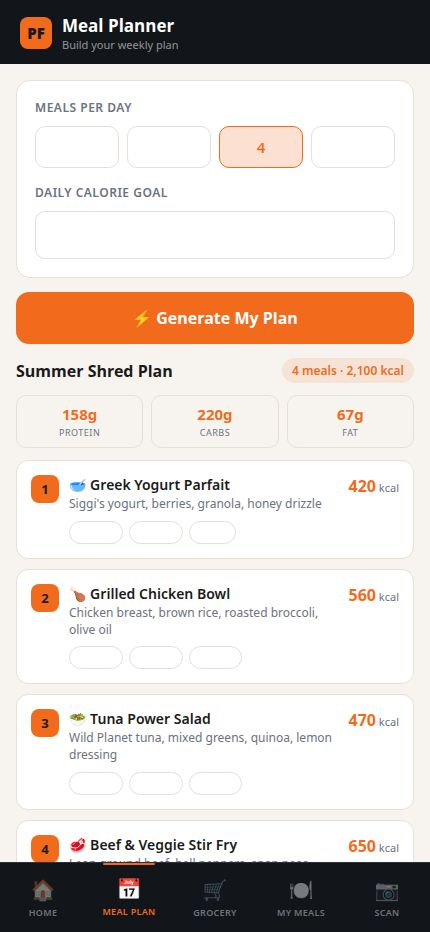
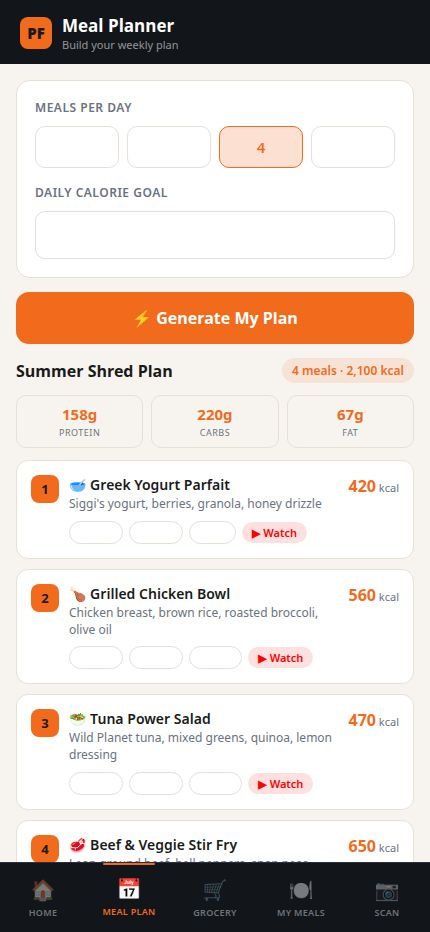
Add a YouTube watch button to every meal card for quick recipe access
Add a new "▶ Watch" button to each meal card in the planner, displaying below the macros. This button links directly to the YouTube recipe. The button was moved from the expanded section to be always visible. Corresponding styles and HTML structure updates were made to both the mobile app and the HTML mockup. The screenshot and metadata for the meal planner have been updated to reflect this change.

Replit-Commit-Author: Agent
Replit-Commit-Session-Id: 366c8a42-eaa5-40fb-9545-b218c470b2f4
Replit-Commit-Checkpoint-Type: full_checkpoint
Replit-Commit-Event-Id: 2ca76ca7-de41-43ef-96d9-b61741545b79
Replit-Commit-Screenshot-Url: https://storage.googleapis.com/screenshot-production-us-central1/840360d6-55f0-4f6a-9af5-ecb5804a7758/366c8a42-eaa5-40fb-9545-b218c470b2f4/QdsIlob
Replit-Helium-Checkpoint-Created: true

Changed region(s): [[0.5744, 0.809, 0.7256, 0.8712], [0.5442, 0.5601, 0.7256, 0.5912], [0.5744, 0.6845, 0.7256, 0.7157]]

diff --git a/artifacts/meal-prep/public/app-screens.html b/artifacts/meal-prep/public/app-screens.html
@@ -204,6 +204,11 @@
   .plan-result-header { display: flex; justify-content: space-between; align-items: center; margin-bottom: 12px; }
   .plan-result-title { font-size: 16px; font-weight: 700; }
   .macro-row { display: flex; gap: 8px; margin-bottom: 12px; }
+  .yt-pill {
+    display: inline-flex; align-items: center; gap: 4px;
+    background: rgba(255,0,0,0.12); color: #FF0000;
+    border-radius: 100px; padding: 3px 10px; font-size: 11px; font-weight: 600;
+  }
   .macro-pill {
     flex: 1; background: rgba(255,255,255,0.06);
     border: 1px solid var(--border);
@@ -726,10 +731,11 @@
           <div style="flex:1">
             <div class="meal-item-name">🥣 Greek Yogurt Parfait</div>
             <div class="meal-item-desc">Siggi's yogurt, berries, granola, honey drizzle</div>
-            <div style="display:flex;gap:6px;margin-top:8px;flex-wrap:wrap;">
+            <div style="display:flex;gap:6px;margin-top:8px;flex-wrap:wrap;align-items:center;">
               <span class="chip" style="font-size:11px;padding:3px 10px;">P: 28g</span>
               <span class="chip" style="font-size:11px;padding:3px 10px;">C: 42g</span>
               <span class="chip" style="font-size:11px;padding:3px 10px;">F: 8g</span>
+              <span class="yt-pill">▶ Watch</span>
             </div>
           </div>
           <div class="meal-cals">420<span style="font-size:11px;color:var(--muted);font-weight:400"> kcal</span></div>
@@ -742,10 +748,11 @@
           <div style="flex:1">
             <div class="meal-item-name">🍗 Grilled Chicken Bowl</div>
             <div class="meal-item-desc">Chicken breast, brown rice, roasted broccoli, olive oil</div>
-            <div style="display:flex;gap:6px;margin-top:8px;flex-wrap:wrap;">
+            <div style="display:flex;gap:6px;margin-top:8px;flex-wrap:wrap;align-items:center;">
               <span class="chip" style="font-size:11px;padding:3px 10px;">P: 48g</span>
               <span class="chip" style="font-size:11px;padding:3px 10px;">C: 58g</span>
               <span class="chip" style="font-size:11px;padding:3px 10px;">F: 14g</span>
+              <span class="yt-pill">▶ Watch</span>
             </div>
           </div>
           <div class="meal-cals">560<span style="font-size:11px;color:var(--muted);font-weight:400"> kcal</span></div>
@@ -758,10 +765,11 @@
           <div style="flex:1">
             <div class="meal-item-name">🥗 Tuna Power Salad</div>
             <div class="meal-item-desc">Wild Planet tuna, mixed greens, quinoa, lemon dressing</div>
-            <div style="display:flex;gap:6px;margin-top:8px;flex-wrap:wrap;">
+            <div style="display:flex;gap:6px;margin-top:8px;flex-wrap:wrap;align-items:center;">
               <span class="chip" style="font-size:11px;padding:3px 10px;">P: 42g</span>
               <span class="chip" style="font-size:11px;padding:3px 10px;">C: 35g</span>
               <span class="chip" style="font-size:11px;padding:3px 10px;">F: 18g</span>
+              <span class="yt-pill">▶ Watch</span>
             </div>
           </div>
           <div class="meal-cals">470<span style="font-size:11px;color:var(--muted);font-weight:400"> kcal</span></div>
@@ -774,10 +782,11 @@
           <div style="flex:1">
             <div class="meal-item-name">🥩 Beef &amp; Veggie Stir Fry</div>
             <div class="meal-item-desc">Lean ground beef, bell peppers, snap peas, coconut aminos</div>
-            <div style="display:flex;gap:6px;margin-top:8px;flex-wrap:wrap;">
+            <div style="display:flex;gap:6px;margin-top:8px;flex-wrap:wrap;align-items:center;">
               <span class="chip" style="font-size:11px;padding:3px 10px;">P: 40g</span>
               <span class="chip" style="font-size:11px;padding:3px 10px;">C: 35g</span>
               <span class="chip" style="font-size:11px;padding:3px 10px;">F: 27g</span>
+              <span class="yt-pill">▶ Watch</span>
             </div>
           </div>
           <div class="meal-cals">650<span style="font-size:11px;color:var(--muted);font-weight:400"> kcal</span></div>

diff --git a/artifacts/prepfit-android/app/(tabs)/planner.tsx b/artifacts/prepfit-android/app/(tabs)/planner.tsx
@@ -304,23 +304,21 @@ function MealCard({ meal, colors }: { meal: GeneratedMeal; colors: ReturnType<ty
         <MacroPill value={meal.protein} label="protein" color="#60a5fa" bg="rgba(96,165,250,0.15)" />
         <MacroPill value={meal.carbs} label="carbs" color="#f59e0b" bg="rgba(245,158,11,0.15)" />
         <MacroPill value={meal.fat} label="fat" color="#34d399" bg="rgba(52,211,153,0.15)" />
+        {meal.youtubeUrl && (
+          <Pressable style={s.ytPill} onPress={handleYouTube}>
+            <Feather name="youtube" size={13} color="#FF0000" />
+            <Text style={s.ytPillTxt}>Watch</Text>
+          </Pressable>
+        )}
       </View>
 
-      {/* Expanded: ingredients + YouTube */}
+      {/* Expanded: ingredients */}
       {expanded && (
         <View style={s.expandedSection}>
           <View style={s.ingredientsBox}>
             <Text style={s.ingredientsLabel}>INGREDIENTS</Text>
             <Text style={s.ingredientsText}>{meal.ingredients}</Text>
           </View>
-
-          {meal.youtubeUrl && (
-            <Pressable style={s.youtubeBtn} onPress={handleYouTube}>
-              <Feather name="youtube" size={14} color={colors.primary} />
-              <Text style={s.youtubeTxt}>Watch recipe guidance</Text>
-              <Feather name="external-link" size={12} color={colors.primary} />
-            </Pressable>
-          )}
         </View>
       )}
 
@@ -759,6 +757,21 @@ const mealCardStyles = (colors: ReturnType<typeof useColors>) =>
       fontFamily: "Inter_400Regular",
       color: colors.foreground,
       lineHeight: 20,
+    },
+    ytPill: {
+      flexDirection: "row",
+      alignItems: "center",
+      borderRadius: 100,
+      paddingHorizontal: 10,
+      paddingVertical: 5,
+      gap: 4,
+      backgroundColor: "rgba(255,0,0,0.12)",
+      marginRight: 6,
+    },
+    ytPillTxt: {
+      fontSize: 12,
+      fontFamily: "Inter_600SemiBold",
+      color: "#FF0000",
     },
     youtubeBtn: {
       flexDirection: "row",
